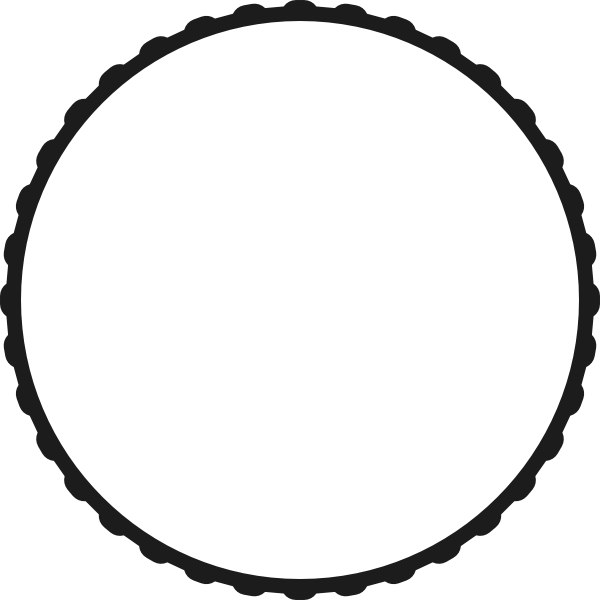
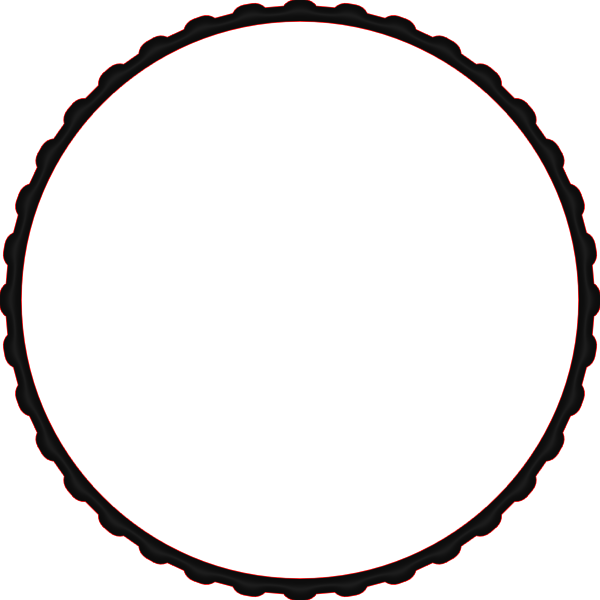
Ui Anpassungen

diff --git a/src/ui/PluginEditor.cpp b/src/ui/PluginEditor.cpp
@@ -53,8 +53,8 @@ NeuroCoreAudioProcessorEditor::NeuroCoreAudioProcessorEditor (NeuroCoreAudioProc
    
 
     static const juce::Colour defaultColours[4] = {
-        juce::Colours::red, juce::Colours::green,
-        juce::Colours::blue, juce::Colours::yellow };
+        juce::Colours::red, juce::Colours::blueviolet,
+        juce::Colours::blue, juce::Colours::mediumvioletred };
 
     const float startAngle = juce::MathConstants<float>::pi * 4.0f / 3.0f;
     const float endAngle   = juce::MathConstants<float>::pi * 8.0f / 3.0f;

diff --git a/src/ui/PluginLookAndFeel.h b/src/ui/PluginLookAndFeel.h
@@ -56,8 +56,6 @@ public:
     const auto angle = rotaryStartAngle +
                        sliderPosProportional * (rotaryEndAngle - rotaryStartAngle);
 
-    juce::DropShadow(findColour(shadowColourId), 4, {})
-        .drawForRectangle(g, bounds.toNearestInt());
 
     const auto sw = static_cast<float>(outerKnob.getWidth());
     const auto sh = static_cast<float>(outerKnob.getHeight());

diff --git a/src/ui/WaveformDisplayComponent.cpp b/src/ui/WaveformDisplayComponent.cpp
@@ -34,7 +34,7 @@ void WaveformDisplayComponent::paint(juce::Graphics& g)
         p.lineTo(x, y);
     }
 
-    g.setColour(juce::Colours::orange);
+    g.setColour(juce::Colours::red);
     g.strokePath(p, juce::PathStrokeType(1.5f));
 }
 
